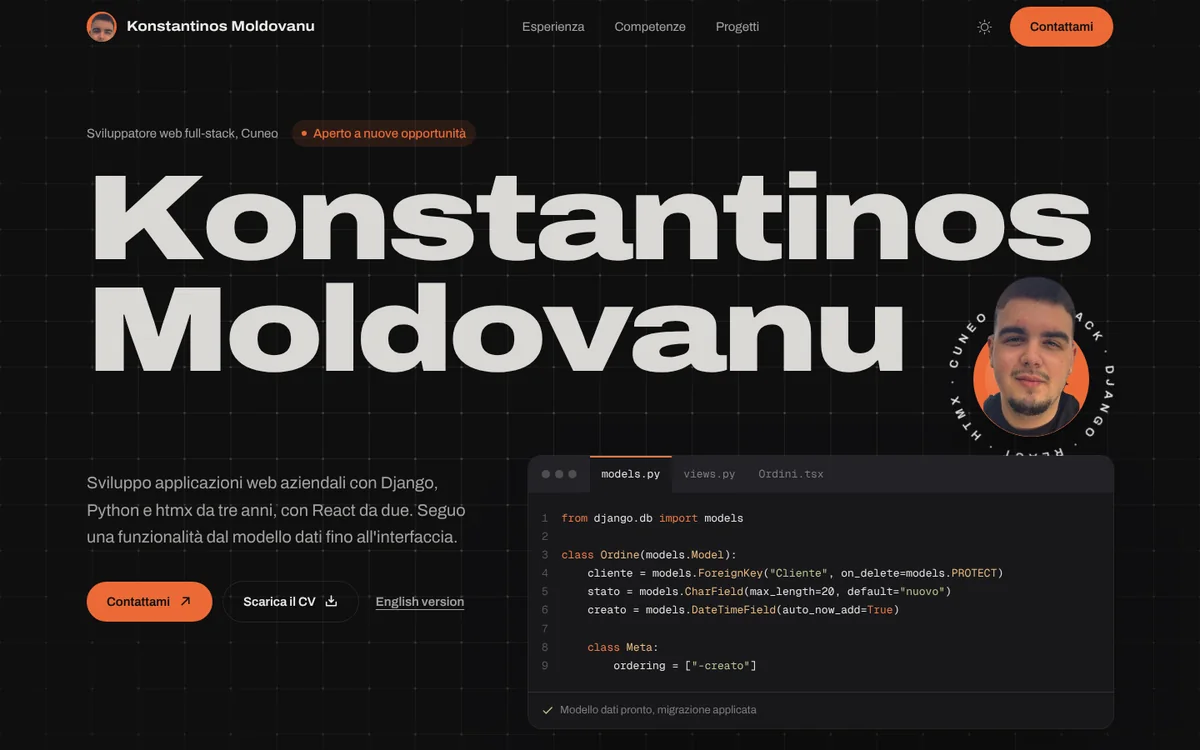
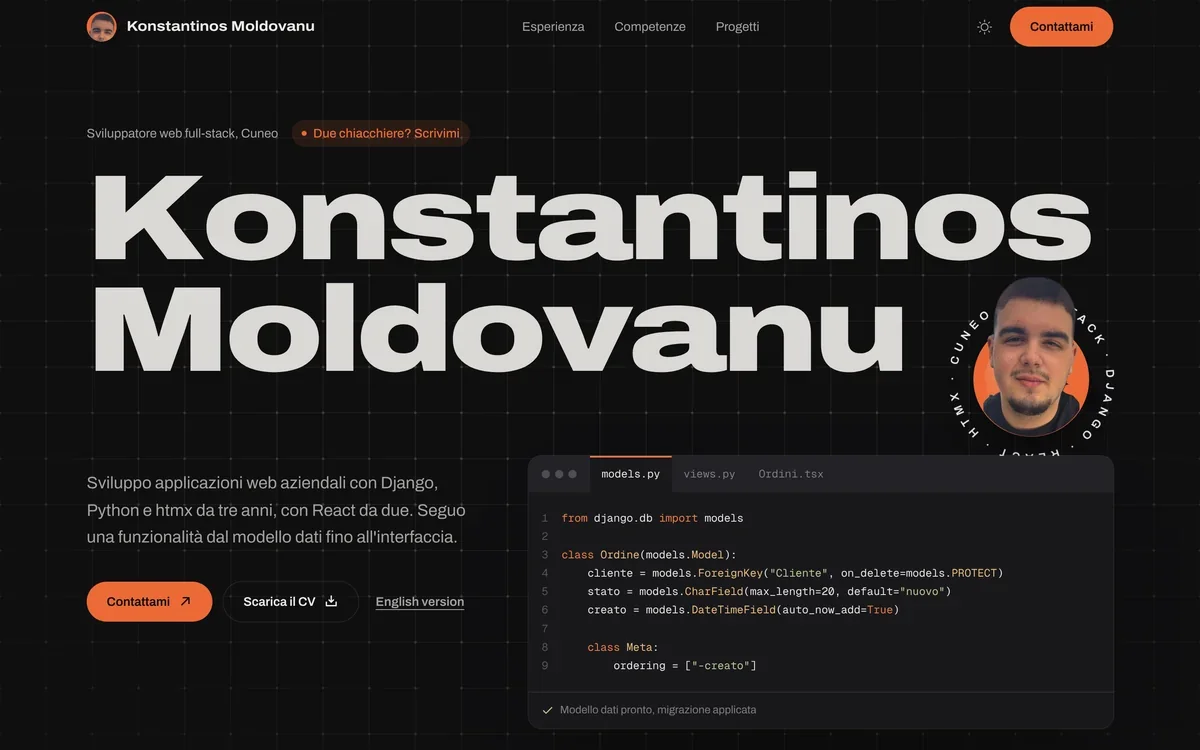
Testi più neutri: badge, sezione contatti e form

diff --git a/src/components/sections/Contact.tsx b/src/components/sections/Contact.tsx
@@ -22,7 +22,7 @@ function validate(values: Values): Errors {
   const errors: Errors = {};
   if (!values.name.trim()) errors.name = "Scrivi il tuo nome.";
   if (!EMAIL.test(values.email)) errors.email = "Inserisci un indirizzo email valido, ad esempio nome@azienda.it.";
-  if (values.message.trim().length < 10) errors.message = "Scrivi almeno 10 caratteri: azienda e posizione bastano.";
+  if (values.message.trim().length < 10) errors.message = "Scrivi almeno 10 caratteri: chi sei e di cosa vuoi parlare.";
   return errors;
 }
 
@@ -44,7 +44,7 @@ async function sendMessage(values: Values, website: string): Promise<{ ok: true 
 
 /** Se l'invio non riesce, lo stesso messaggio si può spedire dal proprio programma di posta. */
 function mailtoHref({ name, email, message }: Values) {
-  const subject = encodeURIComponent(`Opportunità di lavoro da ${name}`);
+  const subject = encodeURIComponent(`Messaggio dal sito da ${name}`);
   const body = encodeURIComponent(`${message}\n\n${name}\n${email}`);
   return `mailto:${profile.email}?subject=${subject}&body=${body}`;
 }
@@ -174,7 +174,7 @@ export function Contact() {
                 value={values.message}
                 onChange={update("message")}
                 error={errors.message}
-                hint="Azienda, posizione e come preferisci essere ricontattato."
+                hint="Chi sei, di cosa vuoi parlare e come preferisci essere ricontattato."
               />
 
               {/* Esca per i bot: fuori dallo schermo e fuori dall'ordine del tab. */}

diff --git a/src/content.ts b/src/content.ts
@@ -10,7 +10,7 @@ export const profile = {
   base: "Cuneo",
   intro:
     "Sviluppo applicazioni web aziendali con Django, Python e htmx da tre anni, con React da due. Seguo una funzionalità dal modello dati fino all'interfaccia.",
-  availability: "Aperto a nuove opportunità",
+  availability: "Due chiacchiere? Scrivimi",
   // Foto ritagliata su sfondo trasparente: compare nella hero e nella barra in alto.
   photo: "/ritratto.webp",
   email: "moldovanu.business@gmail.com",
@@ -98,11 +98,11 @@ export const headings = {
   skills: "Dal database all'interfaccia",
   skillsBody:
     "Scelgo lo strumento in base al problema. A volte serve un'interfaccia in React, altre volte bastano Django, un po' di HTML e qualche attributo htmx.",
-  strengths: "Cosa porto in un team",
+  strengths: "Come lavoro",
   projects: "Progetti",
-  contact: "Cerchi uno sviluppatore per il tuo team?",
+  contact: "Parliamo di codice, progetti o idee",
   contactBody:
-    "Sono aperto a posizioni da sviluppatore full-stack o backend. Scrivimi per un colloquio: ti rispondo io, direttamente.",
+    "Stai costruendo un prodotto web, cerchi qualcuno con cui confrontarti o vuoi solo dirmi cosa ne pensi del sito? Scrivimi: ti rispondo io, direttamente.",
 };
 
 /* ------------------------------------------------------------------ */

diff --git a/src/components/sections/Hero.tsx b/src/components/sections/Hero.tsx
@@ -68,10 +68,13 @@ export function Hero() {
             <span>
               <ScrambleText text={profile.role} delay={250} duration={1000} />, {profile.base}
             </span>
-            <span className="inline-flex items-center gap-2 rounded-full bg-accent/12 px-3 py-1 font-medium text-accent">
+            <a
+              href="#contatti"
+              className="inline-flex items-center gap-2 rounded-full bg-accent/12 px-3 py-1 font-medium text-accent transition-colors duration-200 hover:bg-accent/20"
+            >
               <span aria-hidden className="size-1.5 rounded-full bg-accent" />
               {profile.availability}
-            </span>
+            </a>
           </FadeUp>
 
           {/*

diff --git a/index.html b/index.html
@@ -3,7 +3,7 @@
   <head>
     <meta charset="UTF-8" />
     <meta name="viewport" content="width=device-width, initial-scale=1.0" />
-    <meta name="description" content="Konstantinos Moldovanu, sviluppatore web full-stack con esperienza in Django, Python, htmx e React. Aperto a nuove opportunità." />
+    <meta name="description" content="Konstantinos Moldovanu, sviluppatore web full-stack con esperienza in Django, Python, htmx e React." />
     <meta name="theme-color" content="#f3f3f1" media="(prefers-color-scheme: light)" />
     <meta name="theme-color" content="#0f0f10" media="(prefers-color-scheme: dark)" />
     <link rel="icon" type="image/svg+xml" href="/favicon.svg" />
